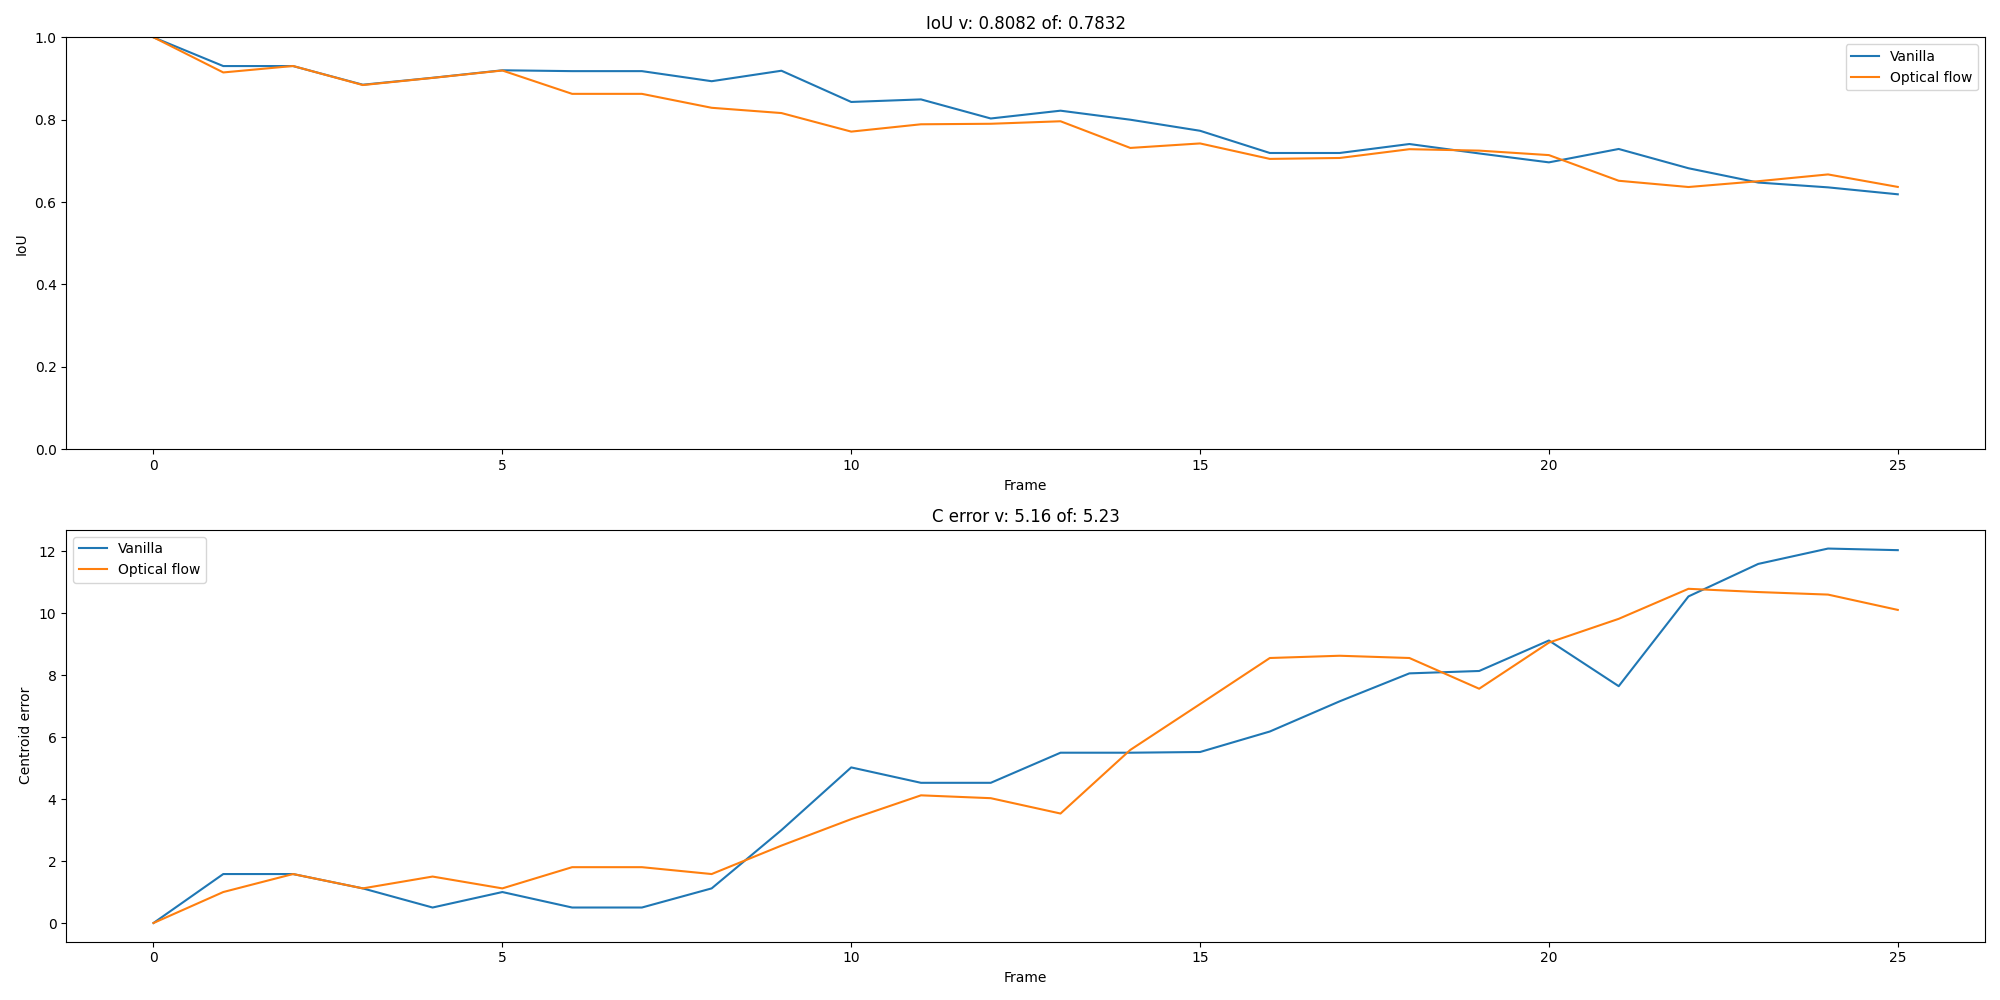
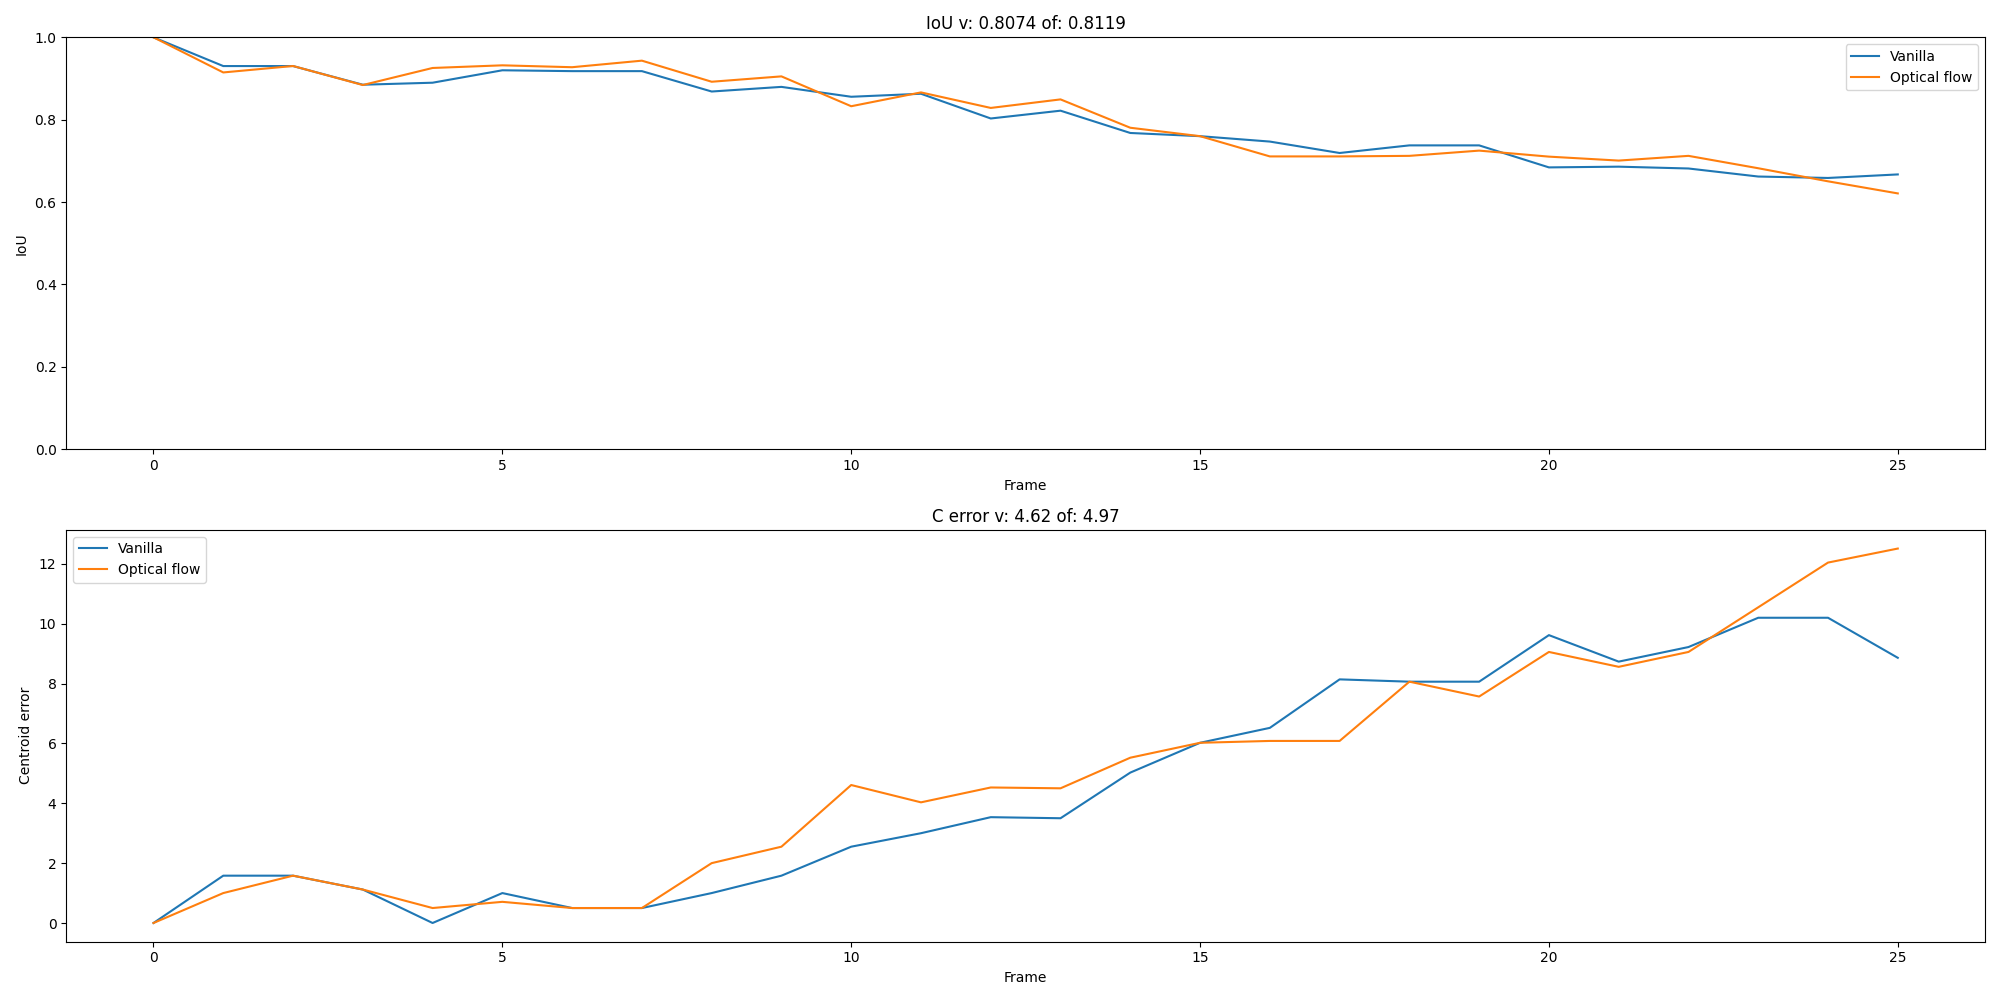
results gta

diff --git a/eval.py b/eval.py
@@ -41,7 +41,7 @@ def main(path="sequences-train",
     tracker_vanilla = Tracker(model, optical_flow=None)
     #target_size = (32, 32) if model_type == "GoNet" else (50,50)
     target_size = (target_size, target_size)
-    tracker_of = Tracker(model, optical_flow="tvl1", target_size=target_size)
+    tracker_of = Tracker(model, optical_flow="tvl1", target_size=target_size, k_context = 1.2)
     
     annotations = utils.load_sequences(path)
     names = list(annotations.keys())
